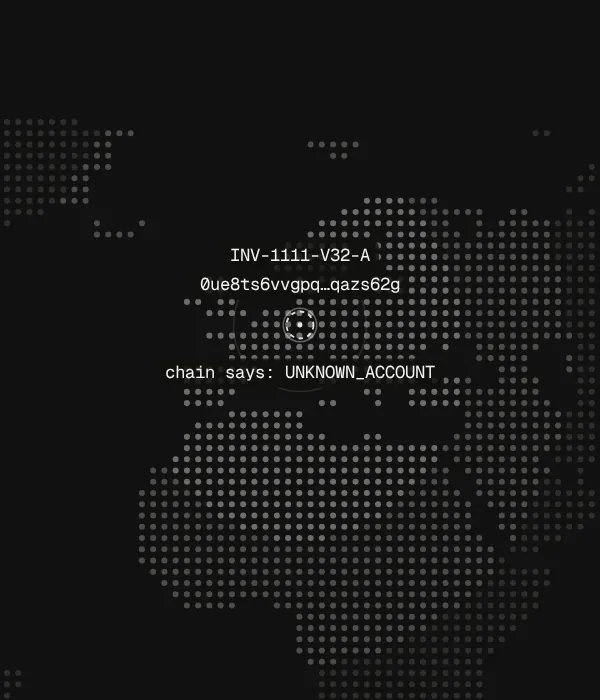
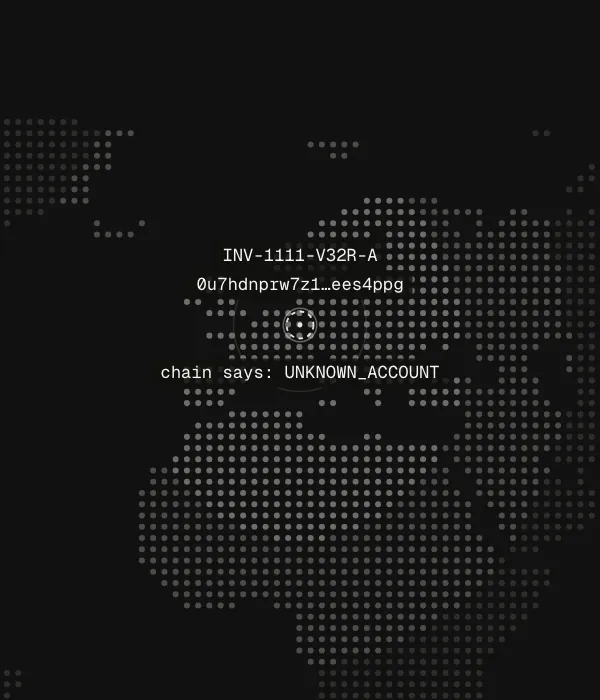
site: move the landing page to the current deployment v3.2r
Replay data, hash, addresses, tx hashes, verify output and story stills now
come from fixtures/v32r/demo-run.json and the v3.2r CLI output. Measured cost
0.0075612 NEAR, 242 tests, the reproducible-build sentence (commit 4116e69),
and the repository and MCP server links are shown.

Changed region(s): [[0.33, 0.33, 0.69, 0.42], [0.48, 0.51, 0.75, 0.54], [0.27, 0.51, 0.45, 0.54]]

diff --git a/site/src/scripts/story.ts b/site/src/scripts/story.ts
@@ -14,8 +14,8 @@ const LAT_MIN = -57;
 const LAT_MAX = 84;
 const N = 25;
 const N_MERCHANT = 23;
-const INV_A = 'INV-1111-V32-A';
-const INV_B = 'INV-1111-V32-B';
+const INV_A = 'INV-1111-V32R-A';
+const INV_B = 'INV-1111-V32R-B';
 
 const PAYER: Pt = [-90, 40];
 const ADDR_A: Pt = [10, 50];
@@ -311,7 +311,7 @@ function boot() {
     if (b === 0) for (let r = 0; r < 2; r++) ripple(pA[0], pA[1], (t * 1.5 + r * 0.5) % 1, paper, 38);
     if (b === 1) ripple(pA[0], pA[1], (t - 0.38) / 0.3, green, 52);
     label(INV_A, pA[0], pA[1] - 46 * ps, smooth(0.15, 0.4, u) * dimA);
-    label('0ue8ts6vvgpq…qazs62g', pA[0], pA[1] - 27 * ps, smooth(0.25, 0.5, u) * dimA);
+    label('0u7hdnprw7z1…ees4ppg', pA[0], pA[1] - 27 * ps, smooth(0.25, 0.5, u) * dimA);
     if (u < 1.05) label('chain says: UNKNOWN_ACCOUNT', pA[0], pA[1] + 32 * ps, smooth(0.45, 0.75, u) * (1 - smooth(0.95, 1.05, u)));
 
     // ---- merchant and vault ----
@@ -358,7 +358,7 @@ function boot() {
       ring(pB[0], pB[1], RING, green, bIn * litB, { fill: 0.18 * litB, w: 1.6 });
       if (b === 3) ripple(pB[0], pB[1], (t - 0.32) / 0.3, green, 52);
       label(INV_B, pB[0], pB[1] + (narrow ? 30 : -46) * ps, 0.95 * bIn);
-      if (!narrow) label('0u2kmvc0zc7h…9c0km0xr0', pB[0], pB[1] - 27 * ps, 0.95 * smooth(2.1, 2.3, u));
+      if (!narrow) label('0u9j9t2pzf15…4g39bm95g', pB[0], pB[1] - 27 * ps, 0.95 * smooth(2.1, 2.3, u));
       if (u < 3.25) label('uninitialized: 1 NEAR waiting', pB[0], pB[1] + (narrow ? 52 : 32) * ps, smooth(2.78, 2.95, u) * (1 - smooth(3.15, 3.28, u)));
 
       const wIn = smooth(2.0, 2.1, u) * (1 - 0.5 * smooth(3.0, 3.2, u));

diff --git a/site/src/story-beats.ts b/site/src/story-beats.ts
@@ -1,4 +1,4 @@
-// Text of the four beats of the map story. Every sentence is a line of TRUTH.md or a value in fixtures/v32/demo-run.json.
+// Text of the four beats of the map story. Every sentence is a line of TRUTH.md or a value in fixtures/v32r/demo-run.json.
 // Live state labels (invoice + state) are computed from scroll progress in scripts/story.ts; `state` here is the
 // state at the end of the beat and is what the no-JS stills show.
 export const BEATS = [

diff --git a/site/scripts/extract-replay.py b/site/scripts/extract-replay.py
@@ -1,5 +1,5 @@
 #!/usr/bin/env python3
-"""Extract the replay steps for the site from fixtures/v32/demo-run.json.
+"""Extract the replay steps for the site from fixtures/v32r/demo-run.json.
 
 Every value comes from a recorded call in the fixture (seq noted per fact).
 Output: src/replay-data.json. Run: python3 -I scripts/extract-replay.py
@@ -9,7 +9,7 @@ import base64
 import pathlib
 
 ROOT = pathlib.Path(__file__).resolve().parent.parent
-FIX = ROOT.parent / 'fixtures' / 'v32' / 'demo-run.json'
+FIX = ROOT.parent / 'fixtures' / 'v32r' / 'demo-run.json'
 OUT = ROOT / 'src' / 'replay-data.json'
 
 d = json.loads(FIX.read_text())
@@ -55,7 +55,7 @@ a_unknown = call(6)['response']['error']['cause']
 assert a_unknown['name'] == 'UNKNOWN_ACCOUNT'
 a_tx = call(10)['response']['result']
 a_doc = invoice_doc(12)
-assert a_doc['status'] == 'PAID' and a_doc['invoice_id'] == 'INV-1111-V32-A'
+assert a_doc['status'] == 'PAID' and a_doc['invoice_id'] == 'INV-1111-V32R-A'
 a_tr = {r: dep for r, dep, gp in transfers(10) if gp == '1000000000'}
 merchant, vault = a_doc['merchant'], a_doc['tax_vault']
 assert near(a_tr[merchant]) == '0.92' and near(a_tr[vault]) == '0.08'
@@ -65,56 +65,56 @@ b_pre = call(24)['response']['result']
 assert b_pre['state'] == 'uninitialized'
 b_tx = call(28)['response']['result']
 b_doc = invoice_doc(30)
-assert b_doc['status'] == 'PAID' and b_doc['invoice_id'] == 'INV-1111-V32-B'
+assert b_doc['status'] == 'PAID' and b_doc['invoice_id'] == 'INV-1111-V32R-B'
 assert success_text(28) == 'PAID' and success_text(10) == 'PAID'
 
 short = lambda h: h[:8] + '…' + h[-6:]
 
 steps = [
     {
-        'name': 'before-unknown-account', 'inv': 'INV-1111-V32-A', 'state': 'NONEXISTENT',
+        'name': 'before-unknown-account', 'inv': 'INV-1111-V32R-A', 'state': 'NONEXISTENT',
         'title': 'No account yet.',
         'text': 'The invoice already has an address. Asking the chain about it returns UNKNOWN_ACCOUNT.',
         'facts': [['Address', a_doc['account_id']], ['Chain answer', a_unknown['name']], ['Recorded call', '#6, block ' + str(a_unknown['info']['block_height'])]],
         'rest': 'NONEXISTENT',
     },
     {
-        'name': 'pay-tx-success', 'inv': 'INV-1111-V32-A', 'state': 'PAID',
+        'name': 'pay-tx-success', 'inv': 'INV-1111-V32R-A', 'state': 'PAID',
         'title': 'One transaction pays and creates the account.',
         'text': 'The payer sends 1 NEAR. The same transaction creates the account and runs the payment.',
         'facts': [['Transaction', a_tx['transaction']['hash']], ['Signed by', a_tx['transaction']['signer_id']], ['Actions', 'UniversalStateInit, FunctionCall'], ['Result', success_text(10)], ['Recorded call', '#10']],
         'rest': a_tx['transaction']['hash'] + ' []',
     },
     {
-        'name': 'invoice-paid-after-callback', 'inv': 'INV-1111-V32-A', 'state': 'PAID',
+        'name': 'invoice-paid-after-callback', 'inv': 'INV-1111-V32R-A', 'state': 'PAID',
         'title': 'The invoice reads PAID.',
         'text': 'After the payment callback, get_invoice on the new account returns PAID and the payer.',
         'facts': [['status', a_doc['status']], ['paid_by', a_doc['paid_by']], ['paid_amount', near(a_doc['paid_amount']) + ' NEAR'], ['Recorded call', '#12']],
         'rest': '',
     },
     {
-        'name': 'split-merchant', 'inv': 'INV-1111-V32-A', 'state': 'PAID',
+        'name': 'split-merchant', 'inv': 'INV-1111-V32R-A', 'state': 'PAID',
         'title': '92% to the merchant.',
         'text': 'The first of two transfers in the payment receipt.',
         'facts': [['To', merchant], ['Amount', near(a_tr[merchant]) + ' NEAR'], ['Recorded call', '#10']],
         'rest': near(a_tr[merchant]),
     },
     {
-        'name': 'split-vault', 'inv': 'INV-1111-V32-A', 'state': 'PAID',
+        'name': 'split-vault', 'inv': 'INV-1111-V32R-A', 'state': 'PAID',
         'title': '8% to the tax vault.',
         'text': f"The invoice sets tax_bps to {a_doc['tax_bps']}. That is 8%.",
         'facts': [['To', vault], ['Amount', near(a_tr[vault]) + ' NEAR'], ['tax_bps', str(a_doc['tax_bps'])], ['Recorded call', '#10']],
         'rest': near(a_tr[vault]),
     },
     {
-        'name': 'transfer-path-uninitialized', 'inv': 'INV-1111-V32-B', 'state': 'UNINITIALIZED',
+        'name': 'transfer-path-uninitialized', 'inv': 'INV-1111-V32R-B', 'state': 'UNINITIALIZED',
         'title': 'A wallet sends money to invoice B.',
         'text': 'A plain transfer to the address. The balance arrives and no contract is installed yet.',
         'facts': [['Address', b_doc['account_id']], ['Balance', near(b_pre['amount']) + ' NEAR'], ['state', b_pre['state']], ['Recorded call', '#24']],
         'rest': near(b_pre['amount']),
     },
     {
-        'name': 'sweep-tx-result', 'inv': 'INV-1111-V32-B', 'state': 'PAID',
+        'name': 'sweep-tx-result', 'inv': 'INV-1111-V32R-B', 'state': 'PAID',
         'title': 'A sweep settles invoice B.',
         'text': 'The sweep installs the contract and settles the same split. paid_by is null because sweep does not know who sent the money.',
         'facts': [['Transaction', b_tx['transaction']['hash']], ['Signed by', b_tx['transaction']['signer_id']], ['Result', 'PAID'], ['paid_by', 'null'], ['Recorded call', '#28']],
@@ -123,7 +123,7 @@ steps = [
 ]
 
 OUT.write_text(json.dumps({
-    'source': 'fixtures/v32/demo-run.json',
+    'source': 'fixtures/v32r/demo-run.json',
     'recorded_at_iso': d['recorded_at_iso'],
     'steps': steps,
 }, indent=1) + '\n')
